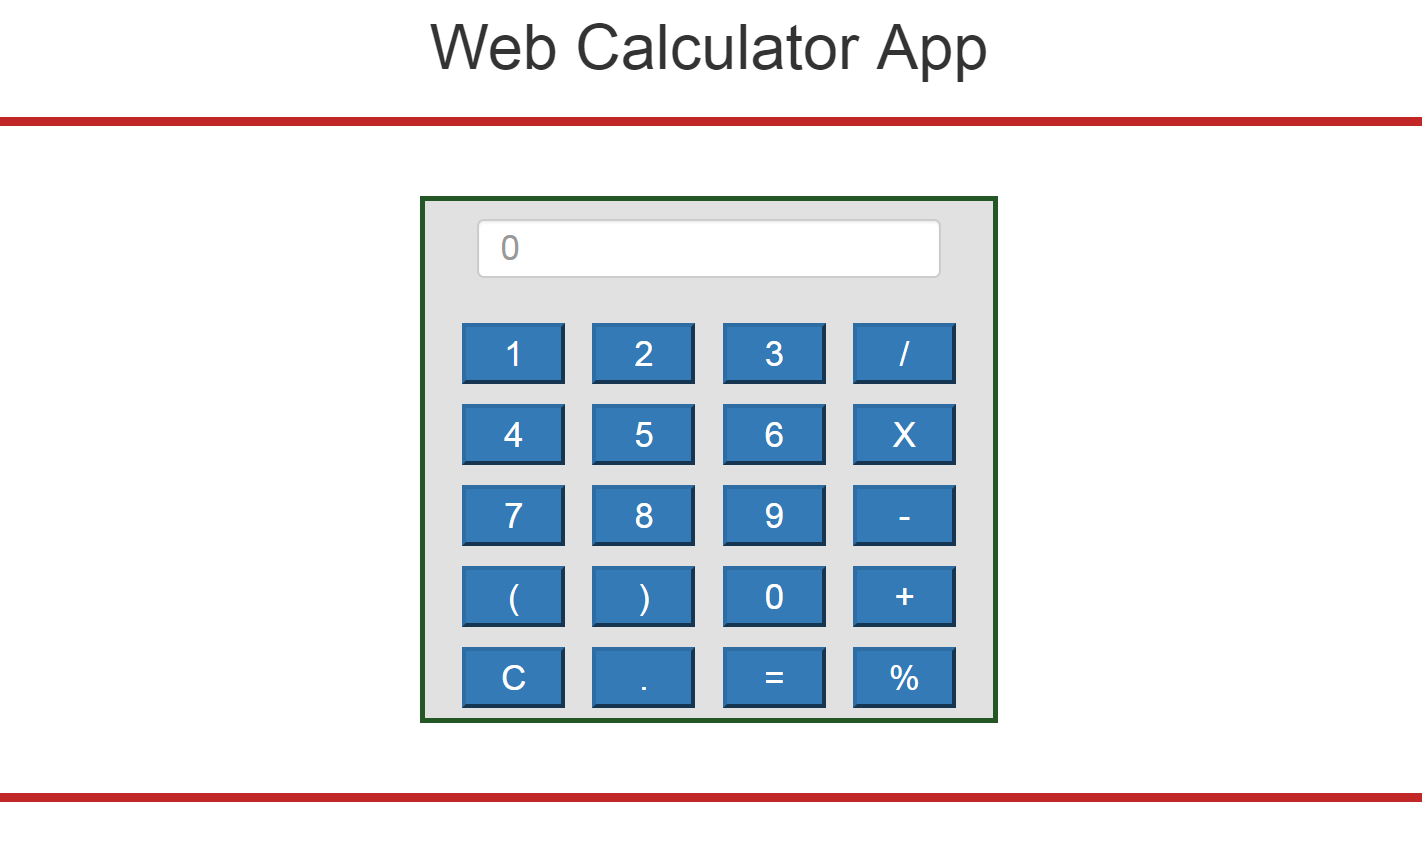
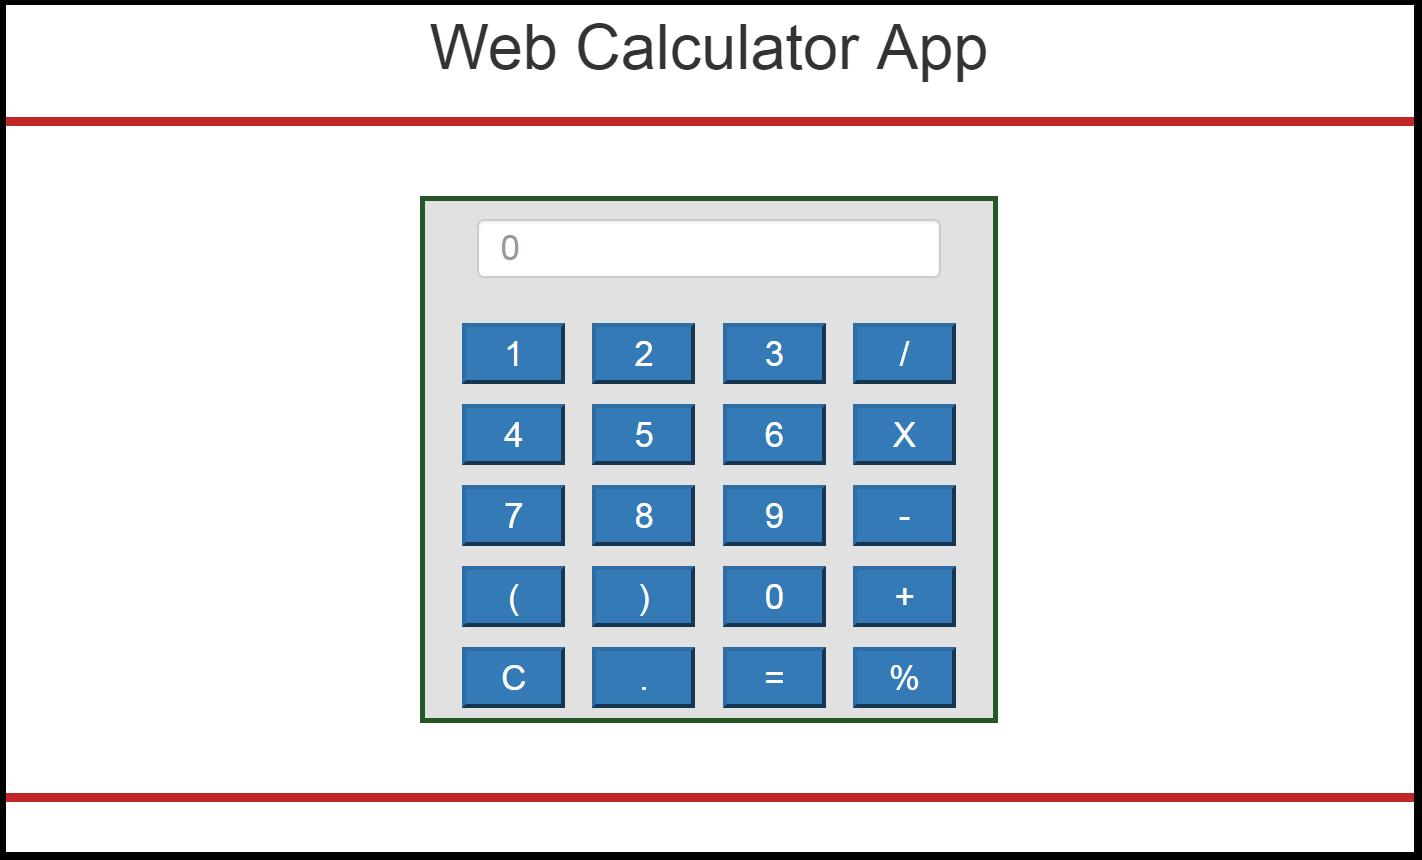
Update README.md

Changed region(s): [[0.0, 0.0, 1.0, 1.0]]

diff --git a/README.md b/README.md
@@ -3,4 +3,4 @@
 
 Web site : https://meowlucian.github.io/Web_Calculator_App/
 
-<img src="img/GUI.PNG" width="600" style="border:5px black;">
+<img src="img/GUI.PNG" width="600">
